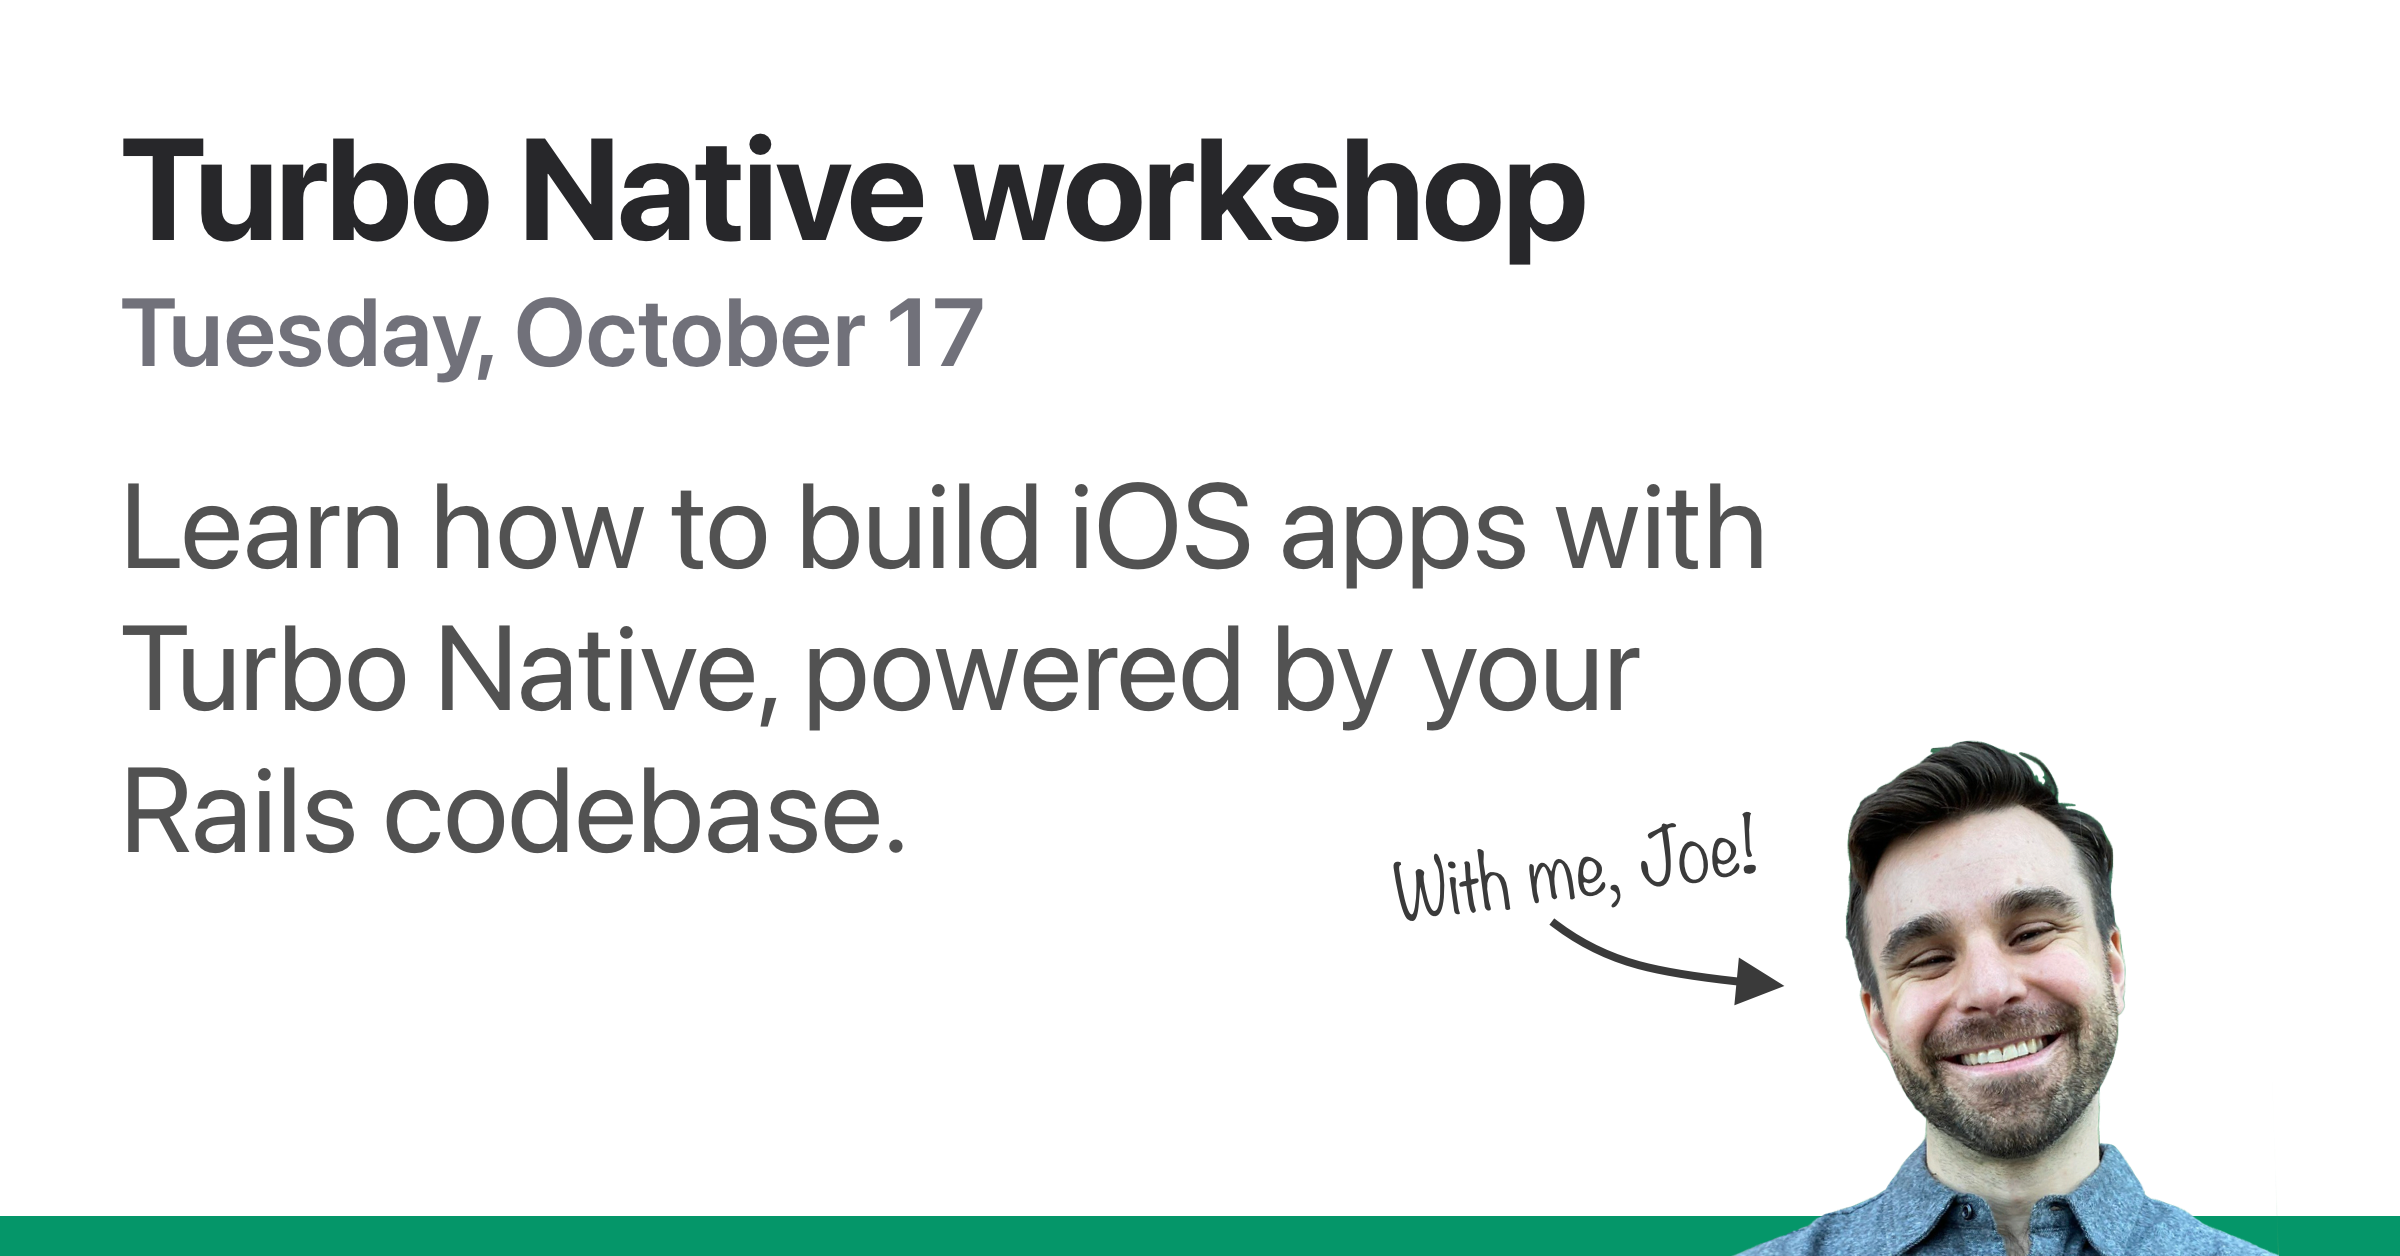
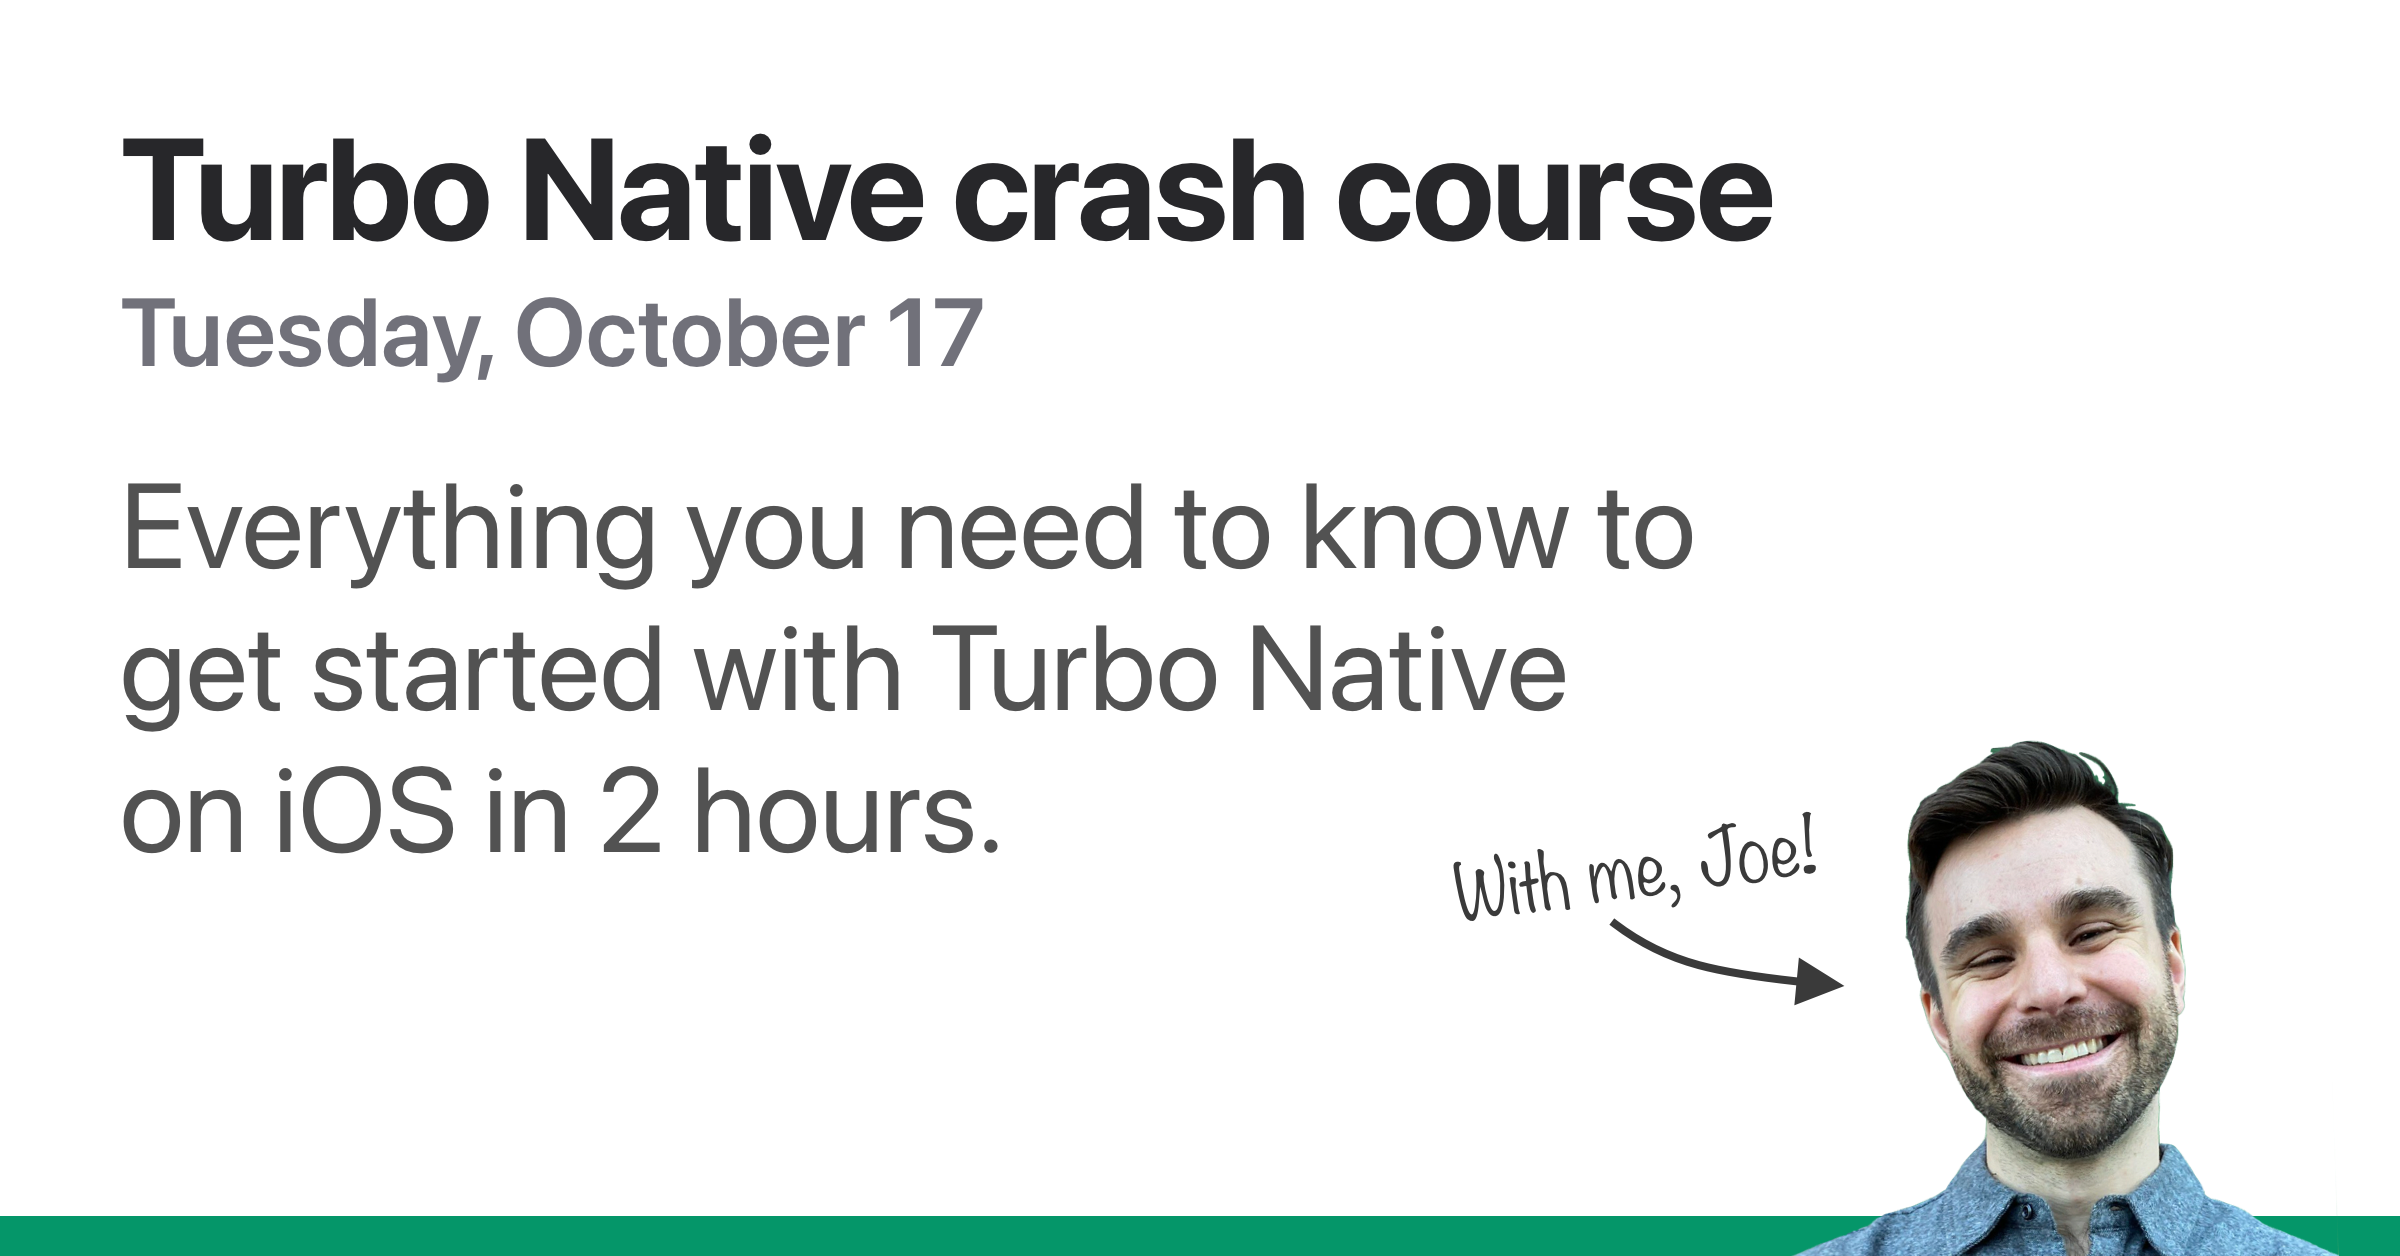
"Rebrand" workshop to crash course

diff --git a/src/_pages/turbo-native-workshop.md b/src/_pages/turbo-native-workshop.md
@@ -1,8 +1,7 @@
 ---
-title: Turbo Native workshop
+title: Turbo Native crash course
 description: |
-  A 2-hour workshop on building iOS apps with Turbo Native, powered by your Rails
-  codebase.
+  Everything you need to know to get started with Turbo Native on iOS in 2 hours.
 permalink: /turbo-native-workshop/
 
 layout: page
@@ -11,33 +10,27 @@ template_engine: erb
 
 ---
 
-<p class="lead">Learn how to build iOS apps with Turbo Native, powered by your Rails codebase.</p>
+<p class="lead">Everything you need to know to get started with Turbo Native on iOS.</p>
 
-Tuesday, October 17 10am-12pm PT on Zoom. $99 per person.
+Tuesday, October 17 at 10am-12pm PT on Zoom. $99 per person.
 
 <%= render Workshop::CTA.new(newsletter: site.data.newsletters.workshop, event_id: site.config.fathom.events.workshop_ticket, hide_count: true) %>
 
 > "Just wrapped at Joe's first Turbo Native workshop. **Money well spent.** His workshop was huge in helping me wrap some concepts together." - [Mike Monroe](https://twitter.com/mikepmunroe/status/1603513381599715336)
 
-Native apps are hard. They’re expensive to build and even more expensive to maintain. But with Turbo Native, that’s no longer true.
+Turbo Native is a Rails developer's secret weapon. It enables us to launch native apps in a fraction of the time. It is a true _write once deploy anywhere_ framework, rendering mobile web views inside native chrome.
 
-The framework enables Rails developers like you and me to build high-fidelity hybrid apps with native navigation in a fraction of the time.
+But getting started isn't easy. The documentation leaves a lot to be desired. Outside of the demo app there aren't a lot of examples to follow.
 
-Turbo Native unlocks native apps for Rails developers in a way that avoids a maintenance nightmare. Adding a new feature to your Rails app is automatically available to your native apps — no rebuilding or resubmitting needed. And since you’re building mobile web views there’s not another framework or library to learn once you have Turbo Native set up.
-
-The interactive workshop will be 2 hours long. You'll learn how to use the [turbo-ios](https://github.com/hotwired/turbo-ios) adapter to build high-fidelity hybrid apps with native navigation.
+This crash course will teach you everything you need to know to get started with Turbo Native on iOS.
 
 ## What you'll get out of this workshop
 
-**How to use Turbo Native** - The steps to integrate the framework into a new Xcode project.
-
-**How to navigate** - Add Turbo Navigator to handle the most important navigation flows.
-
-**How to progressively enhance** - Uncover hidden Rails helpers to work with Turbo Native.
-
-**How to authenticate users** - Ensure users remain signed in between launches.
-
-**How to add native components** - Use Strada to build Swift components driven by HTML.
+1.  **How to use Turbo Native** - The steps to integrate the framework into a Xcode project.
+1.  **How to navigate** - Add Turbo Navigator to handle the most important navigation flows.
+1.  **How to progressively enhance** - Uncover hidden Rails helpers to work with native.
+1.  **How to authenticate users** - Ensure users remain signed in between launches.
+1.  **How to add native components** - Use Strada for Swift components driven by HTML.
 
 > "Great pace and content, and opportunity to get clarification on some key concepts real time was priceless. **Highly recommended**!" 💯 - [Miles](https://twitter.com/tapster/status/1681582444707807234)
 
@@ -47,13 +40,12 @@ A good portion of the workshop is live coding – sometimes I'll be driving and
 
 Attendees will also receive:
 
-**iOS + Rails codebases** - Access to private GitHub repositories to work through during the workshop. Together, these build the groundwork for launching your own Turbo Native app.
-
-**Turbo Native community** - A Discord server invitation to discuss Turbo Native and the take home activities with other attendees and myself.
+* **iOS + Rails codebases** - Access to private GitHub repositories to work through during the workshop. Together, these build the groundwork for launching your own Turbo Native app.
+* **Turbo Native community** - A Discord server invitation to discuss Turbo Native and the take home activities with other attendees and myself.
 
 ## Register
 
-Tuesday, October 17 10am-12pm PT on Zoom. $99 per person.
+Tuesday, October 17 at 10am-12pm PT on Zoom. $99 per person.
 
 <%= render Workshop::CTA.new(newsletter: site.data.newsletters.workshop, event_id: site.config.fathom.events.workshop_ticket, hide_count: true) %>
 
@@ -71,6 +63,4 @@ Have questions about the workshop? [Send me an email](mailto:joe@masilotti.com).
 
 All attendees must be able to run a Ruby on Rails app and Xcode on their machine, clone a git repository, and navigate between git branches/tags.
 
-They must also have a basic understanding of Swift and iOS development. You should be comfortable working with optionals, protocols, delegates, extensions, and UIKit classes like `UIViewController` and `UINavigationController`.
-
-Read through <%= link_to "Swift for Ruby developers", "_posts/2023-04-25-swift-for-ruby-developers.md" %> to get up to speed.
+You must also have a basic understanding of Swift. Read through <%= link_to "Swift for Ruby developers", "\_posts/2023-04-25-swift-for-ruby-developers.md" %> to get up to speed.
